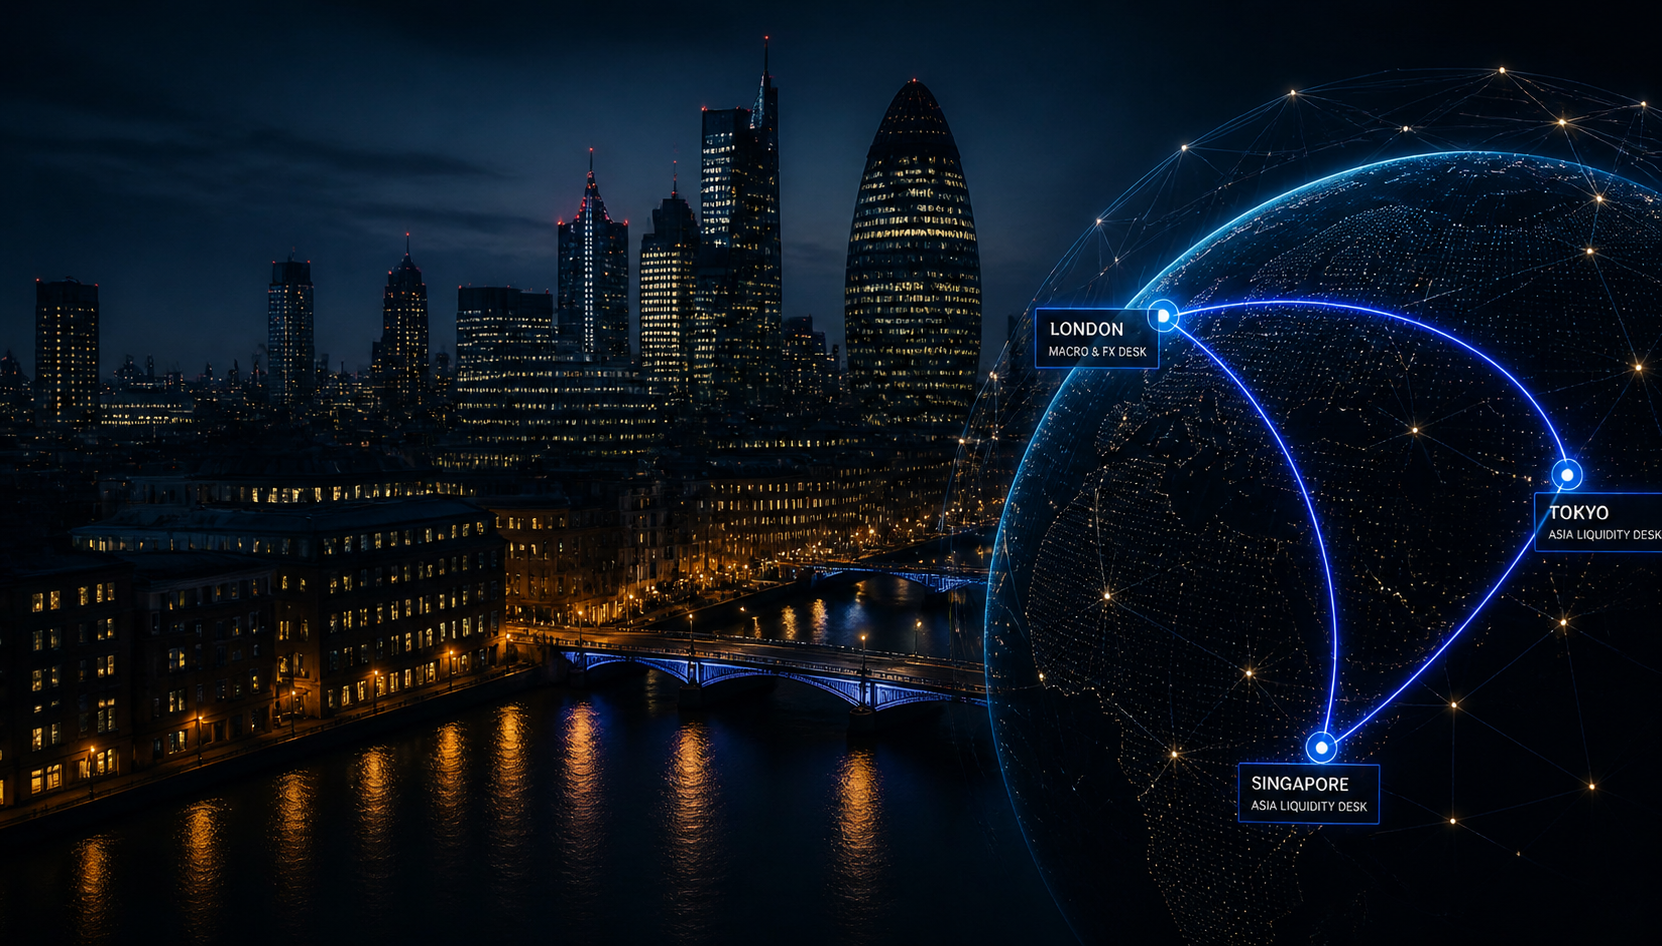
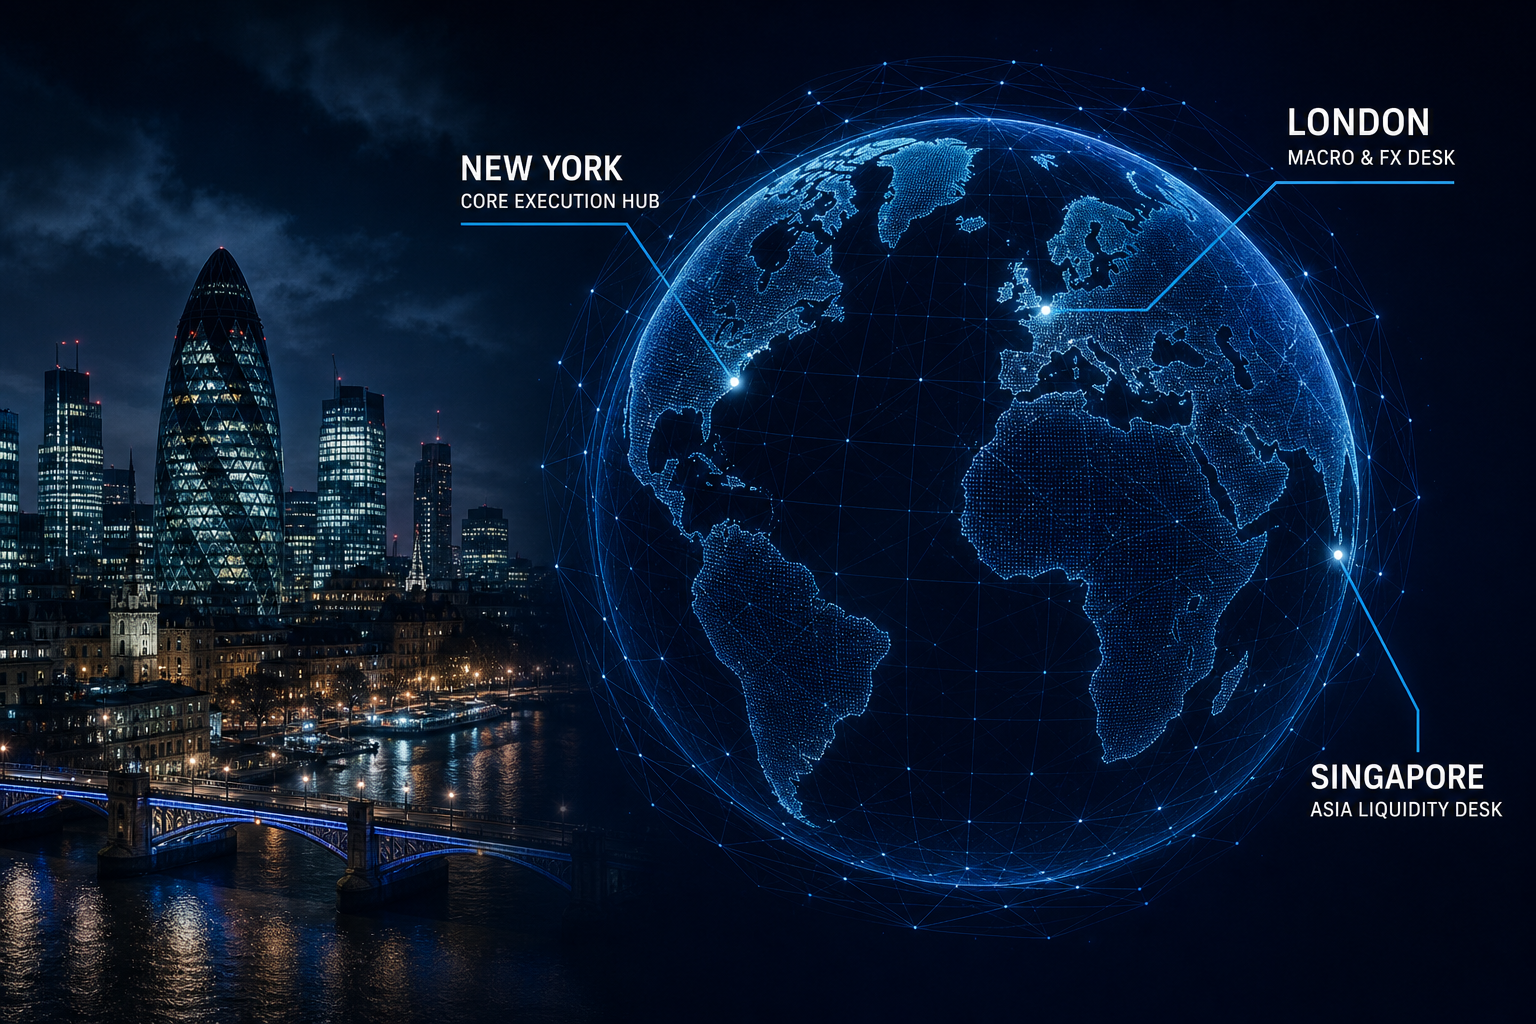
fix(home): hero carousel shows all three global desk locations
Replace cityscape hero art with NY, London, and Singapore labels and tune
object-position and gradients so office callouts stay visible at full bleed.

diff --git a/src/routes/index.tsx b/src/routes/index.tsx
@@ -13,26 +13,33 @@ import deskSingapore from "@/assets/desk-singapore.jpg";
 type HeroSlide = {
   src: string;
   alt: string;
-  /** Globe art has office labels at edges — cover crops them on common laptop widths; contain keeps them visible. */
-  objectFit?: "cover" | "contain";
-  /**
-   * Cityscape imagery is cropped heavily with object-cover + center on tablet aspect ratios,
-   * hiding the skyline. Tune focal point per breakpoint (and portrait vs landscape).
-   */
+  /** Lighter left fade when office labels sit left-of-center (globe / cityscape slides). */
+  softLeftGradient?: boolean;
+  /** object-cover focal point — tuned per slide so desk labels stay in frame. */
   objectPositionClasses?: string;
 };
 
-/** Focal bias: towers slightly right-of-center; skyline band a bit below center — keeps offices in frame across aspect ratios. */
+/** Cityscape composite: globe callouts sit center-right; slight left bias keeps New York in frame. */
 const CITYSCAPE_OBJECT_POSITION =
-  "object-[58%_46%] sm:object-[56%_44%] md:object-[57%_42%] max-lg:portrait:object-[64%_48%] lg:object-[55%_38%] xl:object-[53%_36%] 2xl:object-[52%_34%] min-[1536px]:object-center";
+  "object-[48%_42%] sm:object-[46%_40%] md:object-[45%_38%] max-lg:portrait:object-[50%_44%] lg:object-[44%_36%] xl:object-[42%_34%] 2xl:object-[40%_32%]";
+
+/** Full-bleed globe: slight left bias keeps New York label in frame on laptop widths. */
+const GLOBE_OBJECT_POSITION =
+  "object-[42%_50%] sm:object-[44%_48%] md:object-[46%_46%] lg:object-[48%_45%]";
 
 const HERO_SLIDES: HeroSlide[] = [
   {
     src: heroCityscape,
-    alt: "Global financial city skyline at night with connected trading desks",
+    alt: "Global trading network across New York, London, and Singapore",
+    softLeftGradient: true,
     objectPositionClasses: CITYSCAPE_OBJECT_POSITION,
   },
-  { src: heroGlobe, alt: "Interactive global trading network", objectFit: "contain" },
+  {
+    src: heroGlobe,
+    alt: "Interactive global trading network across New York, London, and Singapore",
+    softLeftGradient: true,
+    objectPositionClasses: GLOBE_OBJECT_POSITION,
+  },
   { src: heroTradingFloor, alt: "Institutional trading floor with live market data" },
   { src: heroCommodities, alt: "Commodities investment: gold, silver, copper and energy markets" },
 ];
@@ -73,16 +80,16 @@ function HomePage() {
         <div className="absolute inset-0 bg-background pointer-events-none">
           {/* Carousel background — cross-fade */}
           {HERO_SLIDES.map((s, i) => {
-            const fit = s.objectFit === "contain" ? "object-contain" : "object-cover";
+            const visible = i === slide;
             const position = s.objectPositionClasses ?? "object-center";
             return (
               <img
                 key={s.src}
                 src={s.src}
-                alt={i === slide ? s.alt : ""}
+                alt={visible ? s.alt : ""}
                 sizes="100vw"
-                className={`absolute inset-0 m-auto min-h-full min-w-full ${fit} ${position} transition-opacity duration-[1500ms] ease-in-out ${
-                  i === slide ? "opacity-60" : "opacity-0"
+                className={`absolute inset-0 m-auto min-h-full min-w-full object-cover ${position} transition-opacity duration-[1500ms] ease-in-out ${
+                  visible ? "opacity-60" : "opacity-0"
                 }`}
                 loading={i === 0 ? "eager" : "lazy"}
                 decoding="async"
@@ -90,7 +97,13 @@ function HomePage() {
             );
           })}
           {/* Left edge fade so text stays legible */}
-          <div className="absolute inset-0 bg-gradient-to-r from-background/95 via-background/60 to-background/10" />
+          <div
+            className={`absolute inset-0 bg-gradient-to-r transition-[opacity] duration-[1500ms] ease-in-out ${
+              HERO_SLIDES[slide]?.softLeftGradient
+                ? "from-background/35 via-background/30 to-background/10"
+                : "from-background/95 via-background/60 to-background/10"
+            }`}
+          />
           {/* Top + bottom vignette into background */}
           <div className="absolute inset-x-0 top-0 h-32 bg-gradient-to-b from-background to-transparent" />
           <div className="absolute inset-x-0 bottom-0 h-40 bg-gradient-to-t from-background to-transparent" />
@@ -290,3 +303,5 @@ function HomePage() {
     </SiteLayout>
   );
 }
+
+